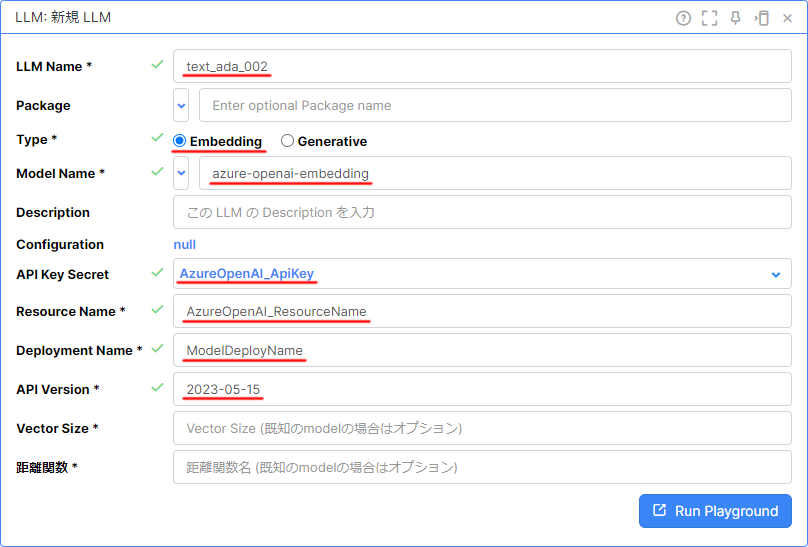
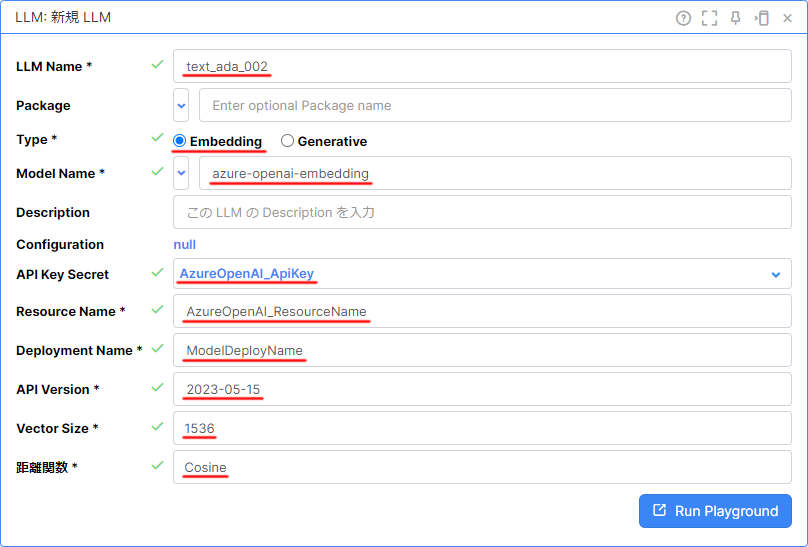
r1.39 に伴う Embedding モデルの設定値の追加修正

Changed region(s): [[0.2166, 0.8391, 0.5569, 0.9013], [0.2166, 0.777, 0.5569, 0.808]]

diff --git a/vantiq-aiml-integration/docs/jp/azure_openai_config.md b/vantiq-aiml-integration/docs/jp/azure_openai_config.md
@@ -221,11 +221,24 @@ OpenAI の LLM と同様に設定していきます。
    |Resource Name|※Azure OpenAI のリソース名|
    |Deployment Name|※Azure OpenAI のデプロイ名|
    |API Version|※Azure OpenAI の API バージョン|
+   |Vector Size|1536|
+   |距離関数|Cosine|
 
    ![embedding_config.png](./../../imgs/azure_openai_config/vantiq_139_embedding_config.png)
 
 > **補足：Configuration について**  
 > Configuration が `null` 以外になっていると正しく動作しないので注意してください。  
+
+> [!NOTE]
+> 距離関数は下記から選択可能ですが、 `Cosine` が推奨されています。  
+> :globe_with_meridians: [Embeddings - OpenAI API](https://platform.openai.com/docs/guides/embeddings/which-distance-function-should-i-use)  
+> 
+> - Dot product: `Dot`
+> - Cosine similarity: `Cosine`
+> - Euclidean distance: `Euclid`
+> - Manhattan distance: `Manhattan`
+> 
+>:globe_with_meridians: [Collections - Qdrant](https://qdrant.tech/documentation/concepts/collections/)  
 
 </details>
 
